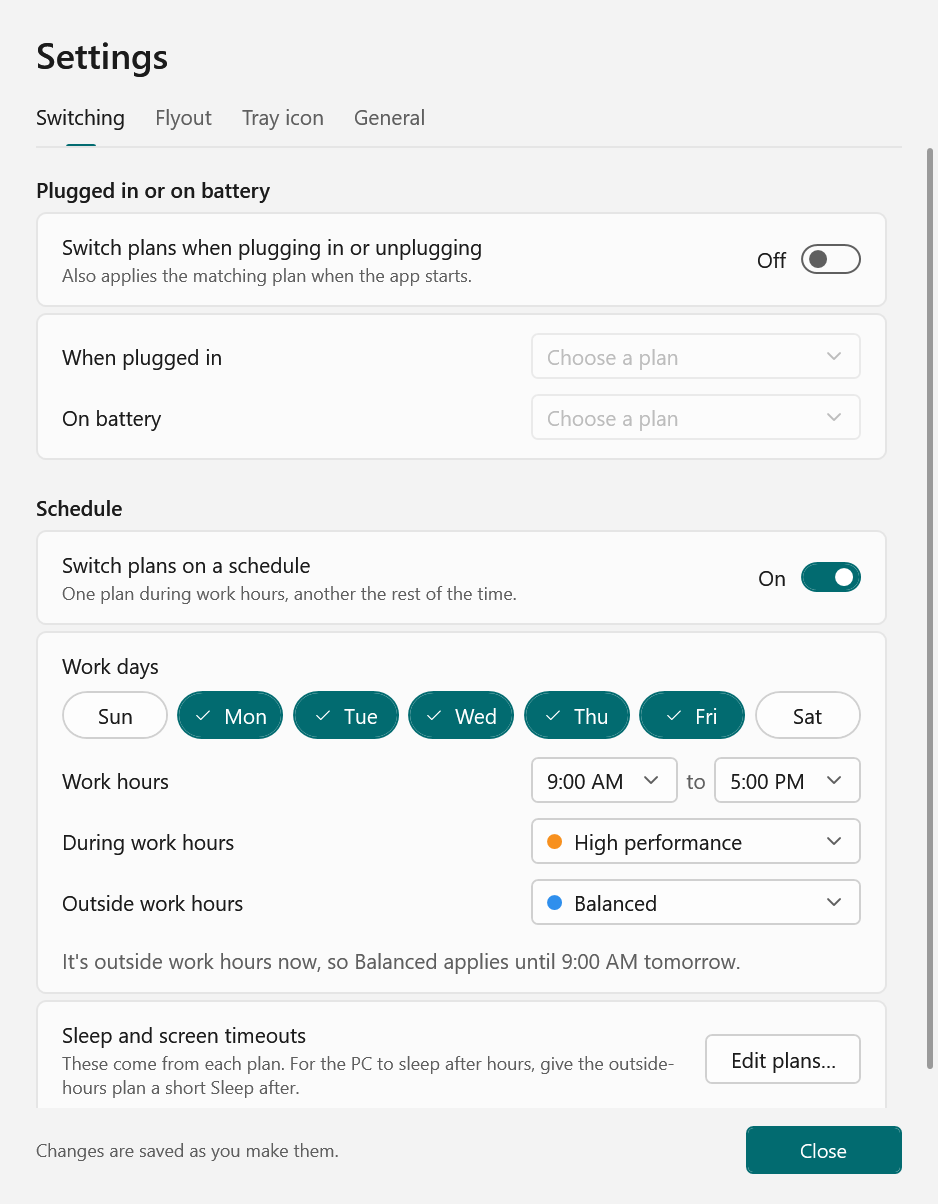
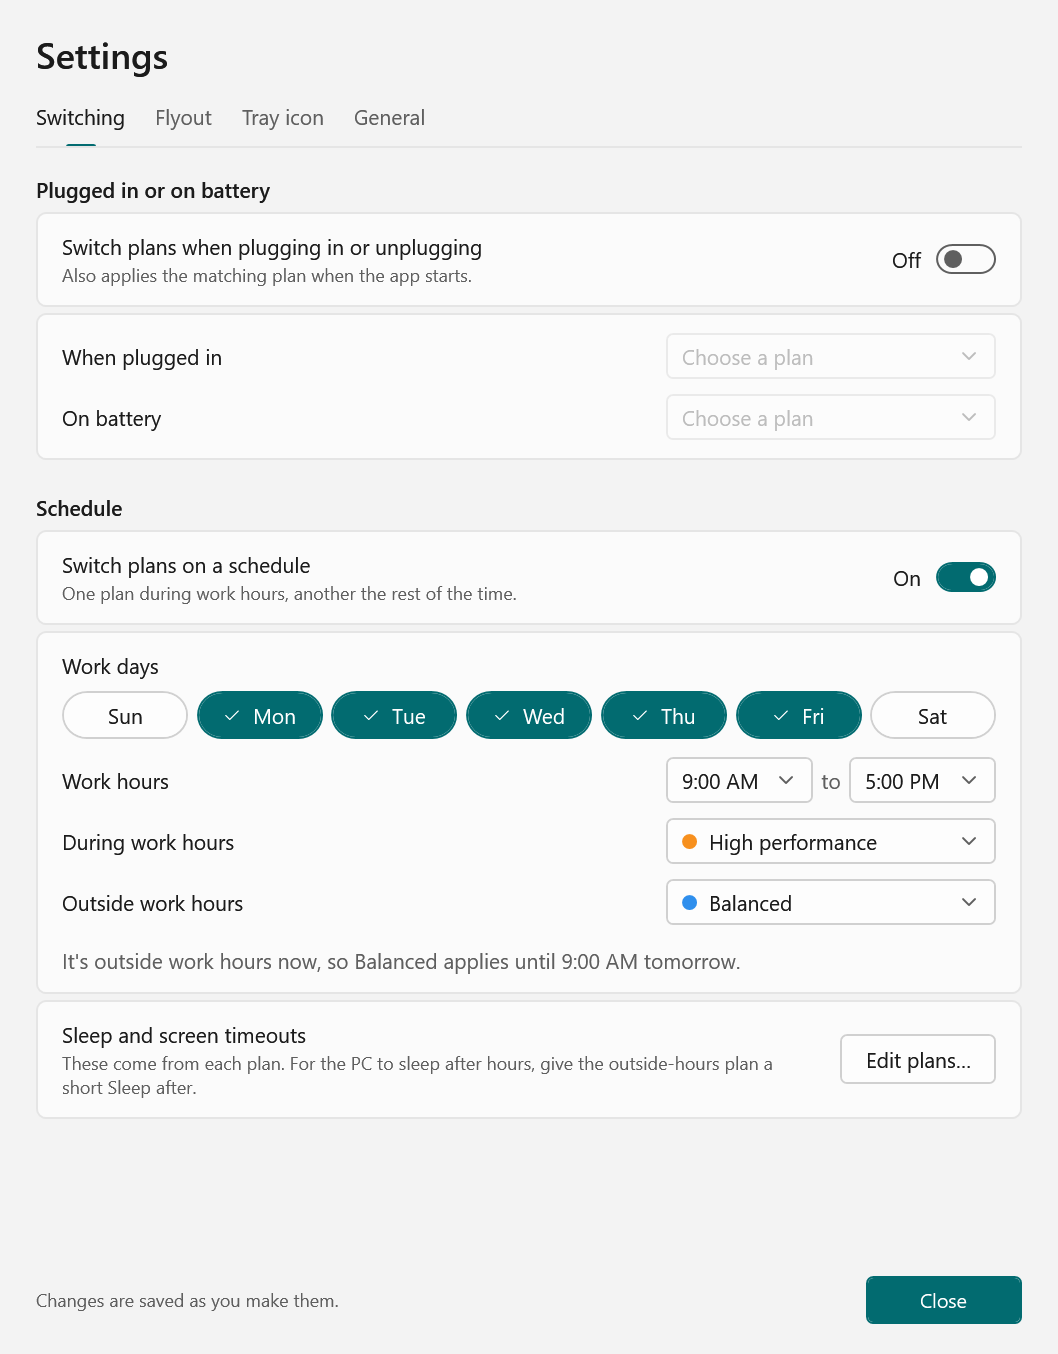
Size Settings so the Switching tab fits without scrolling

diff --git a/PowerSwitcher.TrayApp/SettingsWindow.xaml b/PowerSwitcher.TrayApp/SettingsWindow.xaml
@@ -4,8 +4,8 @@
         xmlns:local="clr-namespace:PowerSwitcher.TrayApp"
         Title="PowerPlanSwitcher Settings"
         Icon="AppIcon.ico"
-        Width="640"
-        Height="840"
+        Width="720"
+        Height="940"
         MaxHeight="{x:Static SystemParameters.MaximizedPrimaryScreenHeight}"
         ResizeMode="NoResize"
         WindowStartupLocation="CenterScreen"

diff --git a/README.md b/README.md
@@ -53,7 +53,7 @@ Right-click the tray icon → **Settings…**. Changes apply and save immediatel
 <p>
   <picture>
     <source media="(prefers-color-scheme: dark)" srcset="ReadmeAssets/settings-dark.png">
-    <img src="ReadmeAssets/settings-light.png" width="625" alt="The Settings window's Switching tab: the work-hours schedule with work days, hours, and a plan for work hours and one for the rest of the time">
+    <img src="ReadmeAssets/settings-light.png" width="700" alt="The Settings window's Switching tab: the work-hours schedule with work days, hours, and a plan for work hours and one for the rest of the time">
   </picture>
   &nbsp;
   <picture>
